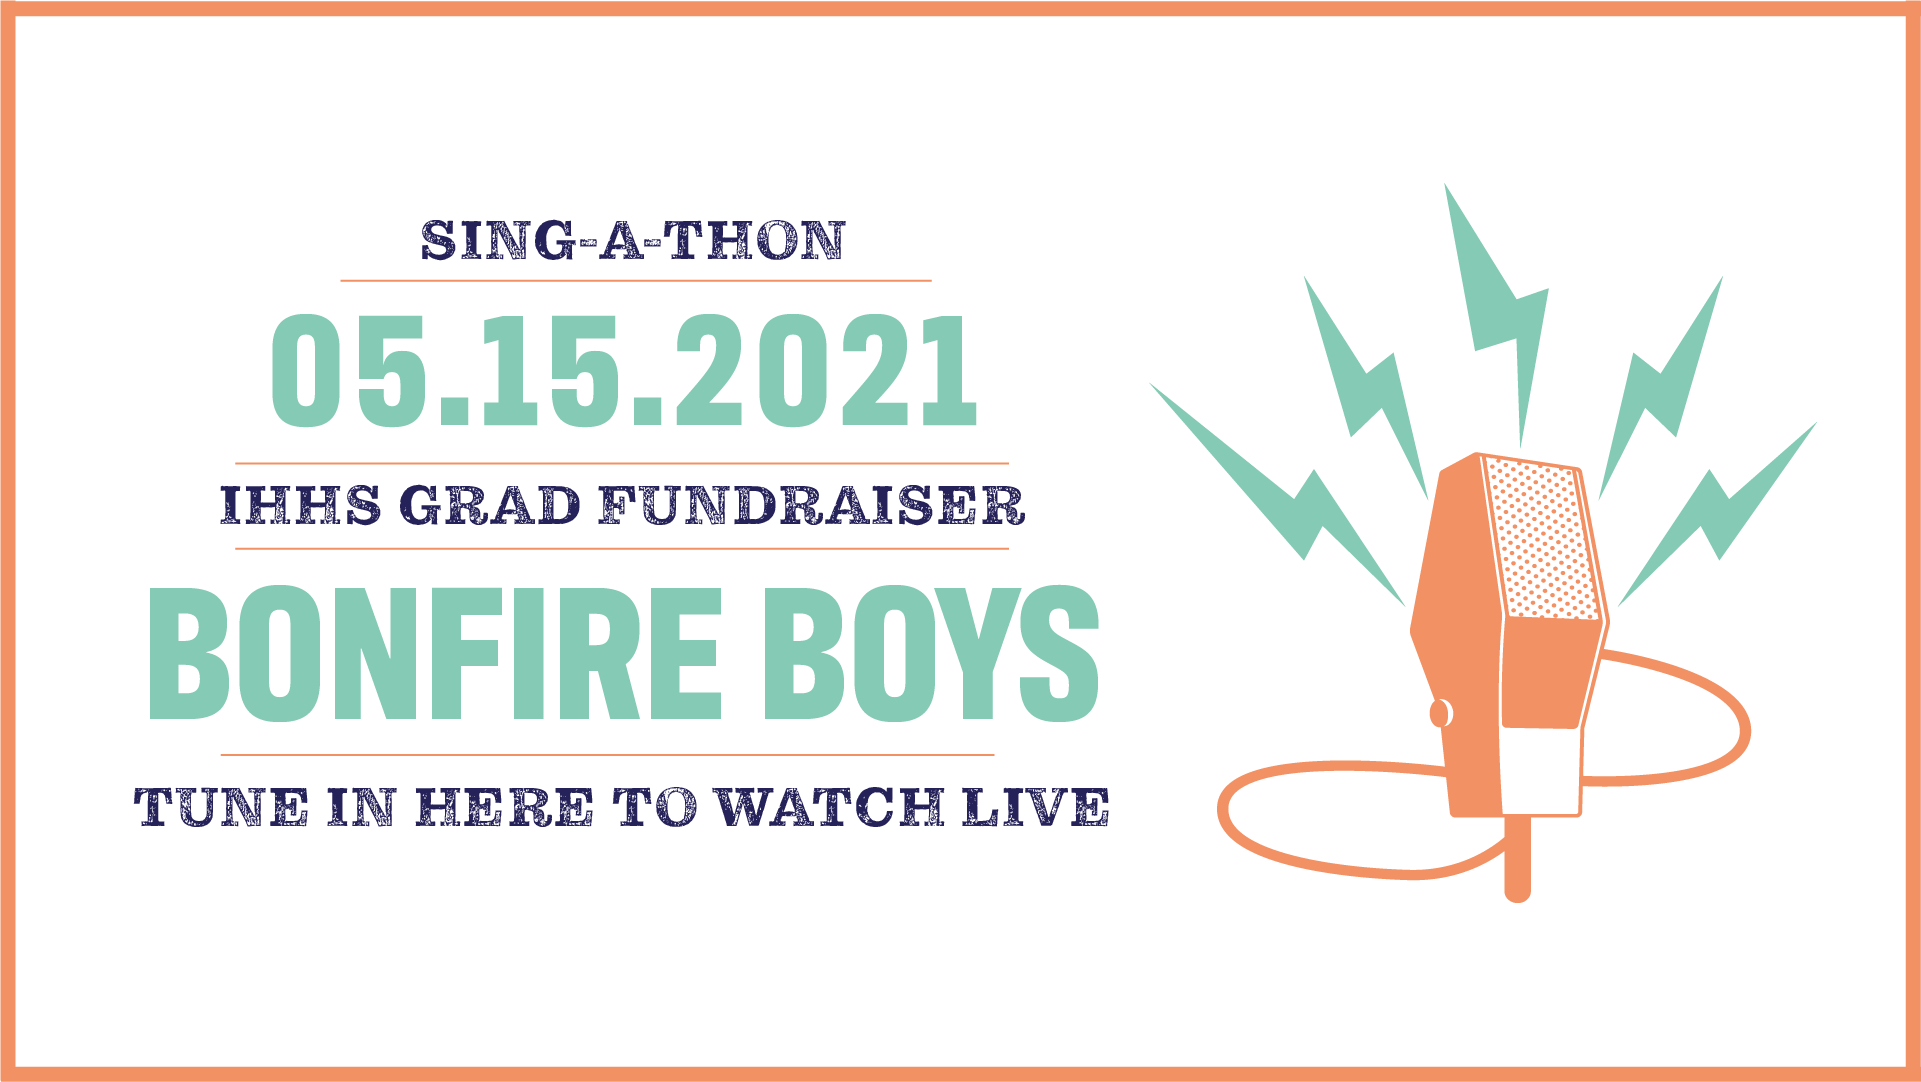
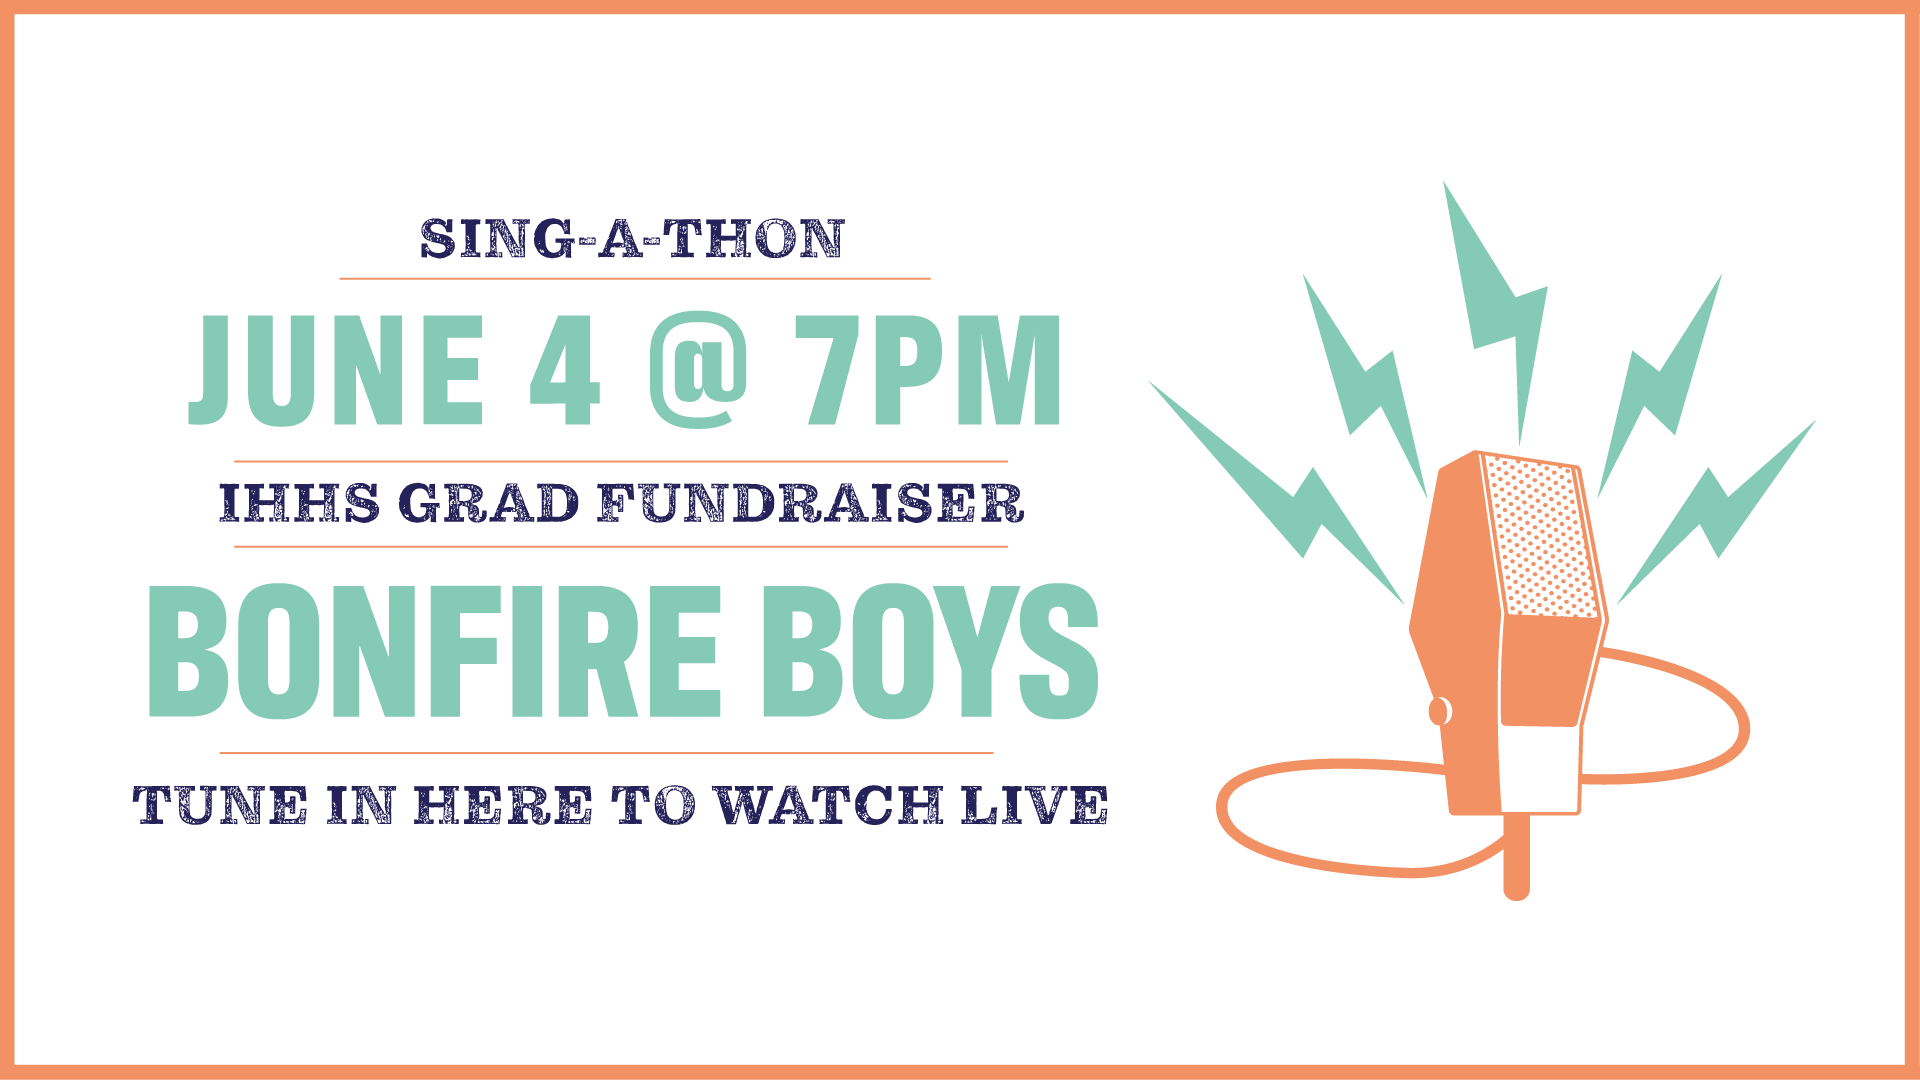
Updated Time

diff --git a/client/src/pages/HomePage.js b/client/src/pages/HomePage.js
@@ -155,7 +155,7 @@ export default class HomePage extends Component {
                         Welcome to the IHHS Grad 2021 fundraising website! <br/><br/>
 
                         This year, the Grade 12 class of Indian Head High School will be holding their graduation ceremony at Mosaic Stadium.
-                        In order to help support the graduating class pay for the rental fees for this facility, Bonfire Boys will be holding a Sing-A-Thon fundraiser on Saturday, May 15.  <br/><br/>
+                        In order to help support the graduating class pay for the rental fees for this facility, Bonfire Boys will be holding a Sing-A-Thon fundraiser on Friday, June 4.  <br/><br/>
                         
                         We are looking forward to supporting our grads as they say farewell to one journey and embark on a new one. <br/><br/>
 
